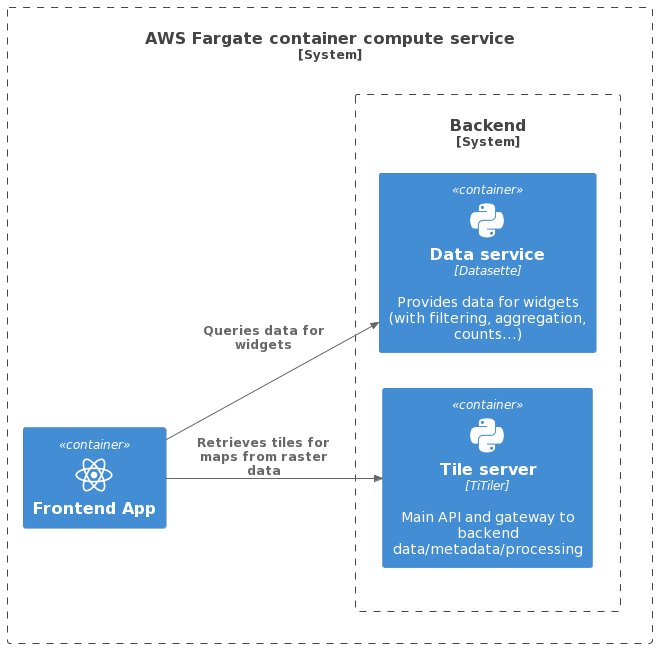
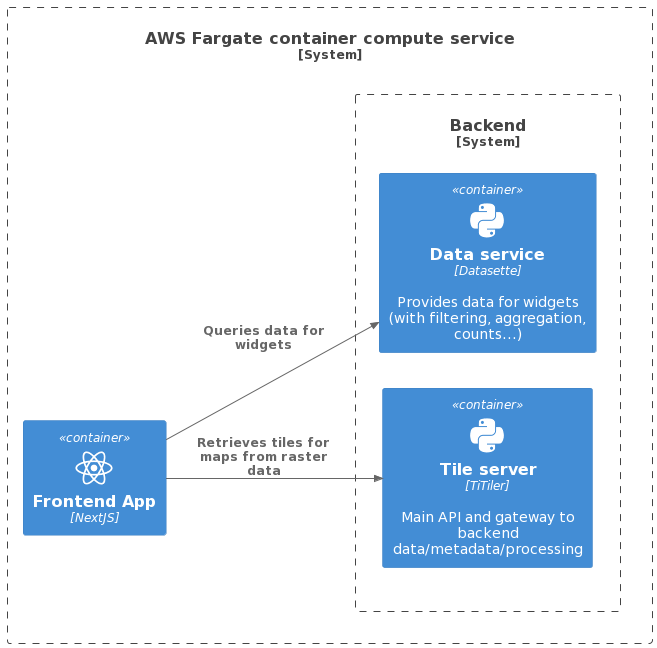
add section about deployment workflow

Changed region(s): [[0.0304, 0.6481, 0.274, 0.8333]]

diff --git a/docs/high-level-architecture.md b/docs/high-level-architecture.md
@@ -3,6 +3,10 @@
 This document describes the current high-level architecture of the cloud
 infrastructure for the Foodscapes application.
 
+It also outlines how the application is run/operated, and the deployment
+workflow through which it is deployed to live environments such as the
+production ("flagship") environment and the staging environment for QA purposes.
+
 ## Key principles and operational constraints
 
 From an architectural standpoint, the key principles we follow are:
@@ -16,14 +20,18 @@ For example, given the requirements and expected performance envelope for the
 application, we identified the [baked
 data](https://simonwillison.net/2021/Jul/28/baked-data/) architectural pattern
 as a suitable way to colocate data and processing, using SQLite as backend data
-layer, without the need to deploy and manage a client/server database server.
+layer, without the need to deploy and manage a database server.
 
 - Reliance on open source projects
 
 Wherever possible, we rely on widely adopted open source projects and
-components, such as the NextJS framework for the frontend application, the
-SQLite-based Datasette framework to access data, the TiTiler tiler
-application, and OCI/Docker containers for deployment.
+components, such as the [NextJS](https://nextjs.org/) framework for the frontend
+application, the SQLite-based [Datasette application](https://datasette.io/) to
+access data, the [TiTiler tiler
+application](https://developmentseed.org/titiler/), and [OCI/Docker
+containers](https://www.docker.com/) (simply referred to as "[OCI
+containers](https://opencontainers.org/)" in the rest of this document) for
+deployment.
 
 Besides the operational leverage, these and other frameworks we choose should
 also help both onboard developers to the project, as well as making it easier to
@@ -52,7 +60,7 @@ With reference again to the C4 Model, the Foodscapes application is made up of
 three containers (components), which all sit within the _Foodscapes application
 proper_ context outlined in the previous section:
 
-- The web application, which interfaces with
+- The web application
 - The TiTiler tiler application
 - The Datasette data API service
 
@@ -62,17 +70,92 @@ Their interaction is shown in the following diagram:
 
 ## Operating the Foodscapes platform
 
-The minimalistic architecture of the application allows to keep operational
-requirement to a minimum, while allowing for suitable degrees of scalability to
-accommodate peaks in the use of the application.
+The minimalistic architecture of the application outlined above allows to keep
+operational requirements to a minimum, while allowing for suitable degrees of
+scalability to accommodate peaks in the use of the application.
 
-All the services that make up the application are built as OCI/Docker images and
-these are then run on the AWS Fargate serverless, pay-as-you go compute engine.
+All the services that make up the application are built as OCI container images
+and these are then run on the AWS Fargate serverless, pay-as-you go compute
+engine.
 
 The following diagram positions the high-level architecture shown above within
 the AWS Fargate service where the services run:
 
 ![Foodscapes app - operations](./high-level-architecture/cloud-operations.png)
+
+## Deployment workflow
+
+The source code for the Foodscapes application components outlined above as well
+as for the application infrastructure (defined as Infrastructure as Code, IaC)
+is managed in a single git repository (https://github.com/Vizzuality/foodscapes).
+
+Live environments of the application (notably, staging and production
+environments, as well as any development, QA, etc. environments) are deployed
+via CI/CD pipelines that run as GitHub Actions.
+
+The deploment workflow includes two subcomponents:
+
+- infrastructure setup: this includes all the steps required to prepare the AWS
+  cloud services needed for the following component
+- automated deployment: this is the deployment component proper, which runs each
+  time a new change is deployed to a specific environment of the application
+
+Both these components are part of the _DevOps infrastructure_ C4 context
+outlined in the [system contexts](#system-contexts) section above.
+
+### Infrastructure setup
+
+The deployment workflow relies on the availability of several systems, such as a
+configured and secured AWS Fargate environment as well as other supporting
+services.
+
+These systems are created, updated and - when needed, for example if
+decommissioning a test environment of the application - deleted through
+[Terraform](https://www.terraform.io/).
+
+In broad terms, the Terraform IaC (Infrastructure as Code) setup for the
+Foodscapes platform takes care of:
+
+- creating an AWS Elastic Container Registry
+- creating the AWS Fargate infrastructure where the live services
+  will be deployed
+- creating any other cloud services needed to operate the platform (for example,
+  networking between application components, firewalls, load balancers, TLS
+  certificates, etc.)
+- managing the secure configuration of the infrastructure, through the principle
+  of least privilege
+
+The cloud infrastructure setup is applied through Terraform when first creating
+the infrastructure for a new environment, when needing to update the
+configuration of an existing environment (for example, to allow AWS Fargate
+services to scale out to a larger number of application instances on the
+production environment only, in preparation for expected peaks in the use of the
+application) or to decommission an environment.
+
+In general, once the setup is stable throughout the development phase, the
+infrastructure setup is seldom updated: it is ready to support the following
+component of the deployment workflow.
+
+### Automated deployment
+
+Whenever any of the branches of the git repository that are associated to a live
+environment (for example, a `staging` branch with the code that will be deployed
+to the staging environment) are updated with new changes/commits/merges, the
+following CI/CD steps are run in sequence:
+
+- a GitHub action runs any checks and tests defined for the various application
+  components
+- a GitHub action builds an OCI container image for each of the application
+  services (frontend app, TiTiler, Datasette), baking in any data as needed (see
+  the [Data layer section](#data-layer) below for details)
+- a GitHub action tags and publishes the freshly built OCI container images to
+  the AWS Elastic Container Registry managed through the _Infrastructure setup_
+  component described in the previous section
+- a GitHub action deploys the new container images to AWS Fargate
+
+Once the last step successfully completes, users will see the latest release of
+the application, and will have access through it to the latest version of the
+underlying map and widget data.
 
 ## Data layer
 
@@ -85,19 +168,38 @@ architectural pattern is employed throughout.
 ### Raster data
 
 Raster data, as a single, multi-band Cloud-Optimized GeoTIFF (COG) file is
-included in the OCI/Docker container for the TiTiler tiler service, rather than
+included in the OCI container image for the TiTiler tiler service, rather than
 being stored on separate cloud storage or in a cloud database.
 
 Colocating raster data and raster computations (aggregation, filtering, etc.)
-allows to minimise the operational complexity (no further cloud systems need to
+allows to minimise operational complexity (no further cloud systems need to
 be managed) and query latency, as well as to maximise data throughput.
+
+Furthermore, the baked data pattern allows to configure the TiTiler service to
+scale out as desired to match peaks in the use of the application, for example
+configuring its deployment in AWS Fargate for the production environment to spin
+up up to 10 instances, depending on the average load on each instance, with no
+additional operational complexity.
 
 ### Tabular data for widgets
 
-Tabualar data curated for the Foodscapes application is likewise included in the
-OCI/Docker container for the Datasette data API service, as a single SQLite
+Tabular data curated for the Foodscapes application is likewise included in the
+OCI container image for the Datasette data API service, as a single SQLite
 database file.
 
-The Datasette service accepts requests for data (filtering, faceting, counting,
-etc.) from the frontend application and translates them to queries to its
-embedded SQLite system.
+The Datasette service accepts requests for data and applicable constraints (such
+as filtering, faceting, counting, etc.) from the frontend application and
+translates them to queries to its embedded SQLite system, eventually returning
+to the client app the data that matches the request received.
+
+In order to mitigate risks from queries that may require complex processing
+(either accidentally, from application bugs, or maliciously from actors other
+than the frontend app), Datasette is configured with a low query timeout
+threshold, tuned to be enough for legitimate queries while being low enough to
+contain side effects of eccessive use through accidental or malicious activity.
+
+Likewise, as the data is baked as "read-only", there are no risks of accidental
+or malicious modification of the data.
+
+As for the TiTiler service, the baked data pattern allows to configure suitable
+horizontal scalability profiles for the Datasette service too.
